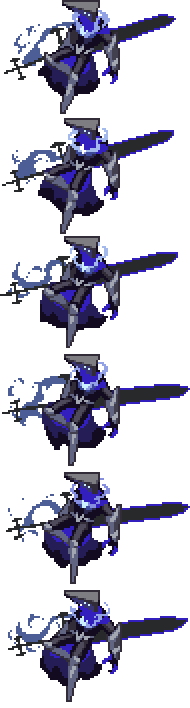
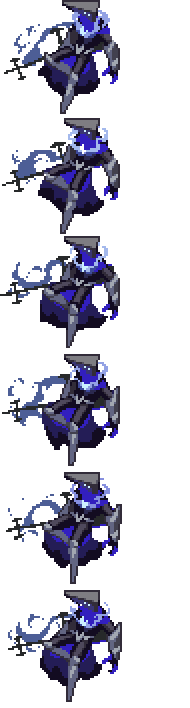
WIP archon changes

diff --git a/NPCs/StarjinxEvent/Enemies/Archon/Archon.cs b/NPCs/StarjinxEvent/Enemies/Archon/Archon.cs
@@ -13,7 +13,7 @@ using Terraria.Utilities;
 
 namespace SpiritMod.NPCs.StarjinxEvent.Enemies.Archon
 {
-	public class Archon : SpiritNPC, IDrawAdditive
+	public class Archon : SpiritNPC, IDrawAdditive, IDrawStargloop
 	{
 		// CONSTS ----------
 
@@ -63,6 +63,10 @@ namespace SpiritMod.NPCs.StarjinxEvent.Enemies.Archon
 
 		// Misc
 		private readonly Dictionary<string, int> timers = new Dictionary<string, int>() { { "ENCHANT", 0 }, { "ATTACK", 0 }, { "CONSTELLATION", 0 }, { "DUO", 0 } };
+
+		private Vector2 HeadPosition => npc.Center - new Vector2(10, 44).RotatedBy(npc.rotation);
+
+		private Texture2D SwordExtra => enchantment == Enchantment.Void ? ModContent.GetTexture(Texture + "_Sword_Void") : ModContent.GetTexture(Texture + "_Sword");
 
 		public void SetDuo(float d) => timers["DUO"] = (int)d;
 
@@ -162,11 +166,23 @@ namespace SpiritMod.NPCs.StarjinxEvent.Enemies.Archon
 				default:
 					break;
 			}
+
+			Visuals();
+		}
+
+		private void Visuals()
+		{
+			if (enchantment == Enchantment.Void)
+			{
+				float scl = Main.rand.NextFloat(1f, 3.5f);
+				EnchantParticle(HeadPosition + Main.rand.NextVector2Circular(20, 20), npc.DirectionTo(HeadPosition) * (3.5f - scl) * 2, scl);
+			}
 		}
 
 		internal void VoidDuoBehaviour(List<int> portals)
 		{
-
+			if (npc.velocity.Length() < 0.25f)
+				npc.rotation *= 0.95f;
 		}
 
 		private void EnchantBehaviour()
@@ -519,7 +535,7 @@ namespace SpiritMod.NPCs.StarjinxEvent.Enemies.Archon
 					EnchantParticle(npc.Center, new Vector2(0, Main.rand.NextFloat(8f, 11f)).RotatedByRandom(MathHelper.TwoPi), 3f);
 
 				if (enchantment == Enchantment.Void)
-					npc.Center = Target.Center + new Vector2(0, Main.rand.Next(300, 400)).RotatedBy(Main.rand.NextBool() ? 0 : MathHelper.Pi);
+					npc.Center = Target.Center + new Vector2(0, Main.rand.Next(300, 400)).RotatedBy(Main.rand.NextBool() ? 0 : MathHelper.Pi).RotatedByRandom(MathHelper.PiOver4);
 
 				cachedAttackPos = npc.Center - (npc.DirectionFrom(Target.Center) * npc.Distance(Target.Center) * 2);
 			}
@@ -537,6 +553,16 @@ namespace SpiritMod.NPCs.StarjinxEvent.Enemies.Archon
 					npc.defDamage = 70;
 				else
 					timers["ATTACK"] = (int)attackTimeMax;
+
+				if (enchantment == Enchantment.Void)
+				{
+					float off = attackTimeMax * BeginAttackThreshold;
+					float addRot = (timers["ATTACK"] - off) / (attackTimeMax - off) * MathHelper.Pi;
+					float realRot = (npc.rotation + addRot) * (MathHelper.Pi / 3f);
+
+					for (int i = 0; i < 50; ++i)
+						EnchantParticle(npc.Center + (npc.DirectionTo(Target.Center) * 60) + new Vector2(i * 3, 0).RotatedBy(-realRot * Math.Sign(npc.velocity.Y)), Vector2.Zero, 2f);
+				}
 			}
 
 			if (timers["ATTACK"] >= attackTimeMax)
@@ -561,6 +587,9 @@ namespace SpiritMod.NPCs.StarjinxEvent.Enemies.Archon
 
 			if (enchantment == Enchantment.Starlight)
 				ParticleHandler.SpawnParticle(new StarParticle(center, velocity, Color.White, Color.Cyan, Main.rand.NextFloat(0.1f, 0.2f) * scale, 25));
+
+			if (enchantment == Enchantment.Void)
+				Dust.NewDustPerfect(center, ModContent.DustType<Dusts.EnemyStargoopDust>(), velocity * (3.5f - scale), Scale: scale);
 		}
 
 		public override void FindFrame(int frameHeight)
@@ -584,23 +613,44 @@ namespace SpiritMod.NPCs.StarjinxEvent.Enemies.Archon
 			DrawThreads(sB);
 		}
 
+		public void DrawStargloop()
+		{
+			if (enchantment == Enchantment.Void)
+				DrawSword();
+		}
+
 		public override bool PreDraw(SpriteBatch spriteBatch, Color drawColor)
 		{
 			if (!inFG) //if not in foreground stop drawing
 				return false;
 
-			float realRot = npc.rotation;
-			SpriteEffects effect = SpriteEffects.None;
+			GetRotation(out float realRot, out SpriteEffects effect);
+
+			Color col = Lighting.GetColor((int)(npc.Center.X / 16f), (int)(npc.Center.Y / 16f));
+			spriteBatch.Draw(Main.npcTexture[npc.type], npc.Center - Main.screenPosition, npc.frame, col, realRot, npc.frame.Size() / 2f, 1f, effect, 0f);
+
+			if (enchantment != Enchantment.Void)
+				DrawSword();
+			return false;
+		}
+
+		public void DrawSword()
+		{
+			GetRotation(out float realRot, out SpriteEffects effect);
+
+			Main.spriteBatch.Draw(SwordExtra, npc.Center - Main.screenPosition, npc.frame, Color.White, realRot, npc.frame.Size() / 2f, Vector2.One, effect, 0f);
+		}
+
+		private void GetRotation(out float realRot, out SpriteEffects effect)
+		{
+			realRot = npc.rotation;
+			effect = SpriteEffects.None;
 
 			if (npc.rotation < -MathHelper.PiOver2 || npc.rotation > MathHelper.PiOver2)
 			{
 				realRot -= MathHelper.Pi;
 				effect = SpriteEffects.FlipHorizontally;
 			}
-
-			Color col = Lighting.GetColor((int)(npc.Center.X / 16f), (int)(npc.Center.Y / 16f));
-			spriteBatch.Draw(Main.npcTexture[npc.type], npc.Center - Main.screenPosition, npc.frame, col, realRot, npc.frame.Size() / 2f, 1f, effect, 0f);
-			return false;
 		}
 
 		internal const float THREADGROWLERP = 30; //How many frames does it take for threads to fade in/out?
@@ -654,7 +704,7 @@ namespace SpiritMod.NPCs.StarjinxEvent.Enemies.Archon
 			else if (enchantment == Enchantment.Meteor)
 				choices.Add(AttackType.MeteorDash, 1.5f);
 
-			attack = choices;
+			attack = AttackType.TeleportSlash;
 
 			if (attack == AttackType.TeleportSlash)
 			{
@@ -692,6 +742,6 @@ namespace SpiritMod.NPCs.StarjinxEvent.Enemies.Archon
 			Count = 4
 		}
 
-		public void SetRandomEnchantment() => enchantment = Enchantment.Starlight;// (Enchantment)(Main.rand.Next((int)Enchantment.Count - 1) + 1);
+		public void SetRandomEnchantment() => enchantment = Enchantment.Void;// (Enchantment)(Main.rand.Next((int)Enchantment.Count - 1) + 1);
 	}
 }

diff --git a/NPCs/StarjinxEvent/Enemies/StarWeaver/StarWeaverNPC.cs b/NPCs/StarjinxEvent/Enemies/StarWeaver/StarWeaverNPC.cs
@@ -176,7 +176,6 @@ namespace SpiritMod.NPCs.StarjinxEvent.Enemies.StarWeaver
 					frame.X = 1;
 					npc.velocity = Vector2.Zero;
 
-
 					if (AiTimer > STARGLOOP_TIME)
 					{
 						AiTimer = -Main.rand.Next(60);
@@ -191,7 +190,7 @@ namespace SpiritMod.NPCs.StarjinxEvent.Enemies.StarWeaver
 				if (Main.netMode == NetmodeID.MultiplayerClient)
 					return;
 
-				Projectile proj = Projectile.NewProjectileDirect(npc.Top - new Vector2(0, 20), Vector2.Zero, ModContent.ProjectileType<StarWeaverHead>(), NPCUtils.ToActualDamage(npc.damage, 1), 1f, Main.myPlayer, npc.whoAmI);
+				var proj = Projectile.NewProjectileDirect(npc.Top - new Vector2(0, 20), Vector2.Zero, ModContent.ProjectileType<StarWeaverHead>(), NPCUtils.ToActualDamage(npc.damage, 1), 1f, Main.myPlayer, npc.whoAmI);
 				_headIndex = proj.whoAmI;
 				if (Main.netMode != NetmodeID.SinglePlayer)
 					NetMessage.SendData(MessageID.SyncProjectile, -1, -1, null, _headIndex);

diff --git a/Effects/Stargoop/StargoopLayer.cs b/Effects/Stargoop/StargoopLayer.cs
@@ -48,10 +48,9 @@ namespace SpiritMod.Effects.Stargoop
 			sB.Begin(SpriteSortMode.Immediate, BlendState.Additive, SamplerState.PointClamp, DepthStencilState.Default, RasterizerState.CullNone);
 
 			SpiritMod.Metaballs.borderNoise.CurrentTechnique.Passes[0].Apply();
+
 			foreach (var m in Metaballs)
-			{
 				m.DrawOnMetaballLayer(sB);
-			}
 
 			sB.End();
 
@@ -60,8 +59,13 @@ namespace SpiritMod.Effects.Stargoop
 			sB.Begin(SpriteSortMode.Immediate, BlendState.AlphaBlend, SamplerState.PointClamp, DepthStencilState.Default, RasterizerState.CullNone, null);
 
 			foreach (var s in Sprites)
-			{
 				s.DrawGalaxyMappedSprite(sB);
+
+			for (int i = 0; i < Main.maxNPCs; ++i)
+			{
+				NPC npc = Main.npc[i];
+				if (npc.active && npc.modNPC != null && npc.modNPC is IDrawStargloop gloop)
+					gloop.DrawStargloop();
 			}
 
 			sB.End();

diff --git a/Utilities/IDrawAdditive.cs b/Utilities/IDrawAdditive.cs
@@ -1,7 +1,4 @@
-using Terraria;
-using Terraria.ObjectData;
-using Microsoft.Xna.Framework.Graphics;
-using Microsoft.Xna.Framework;
+using Microsoft.Xna.Framework.Graphics;
 
 namespace SpiritMod
 {

diff --git a/Utilities/IDrawStargloop.cs b/Utilities/IDrawStargloop.cs
@@ -1,0 +1,7 @@
+namespace SpiritMod
+{
+	interface IDrawStargloop
+	{
+		void DrawStargloop();
+	}
+}
